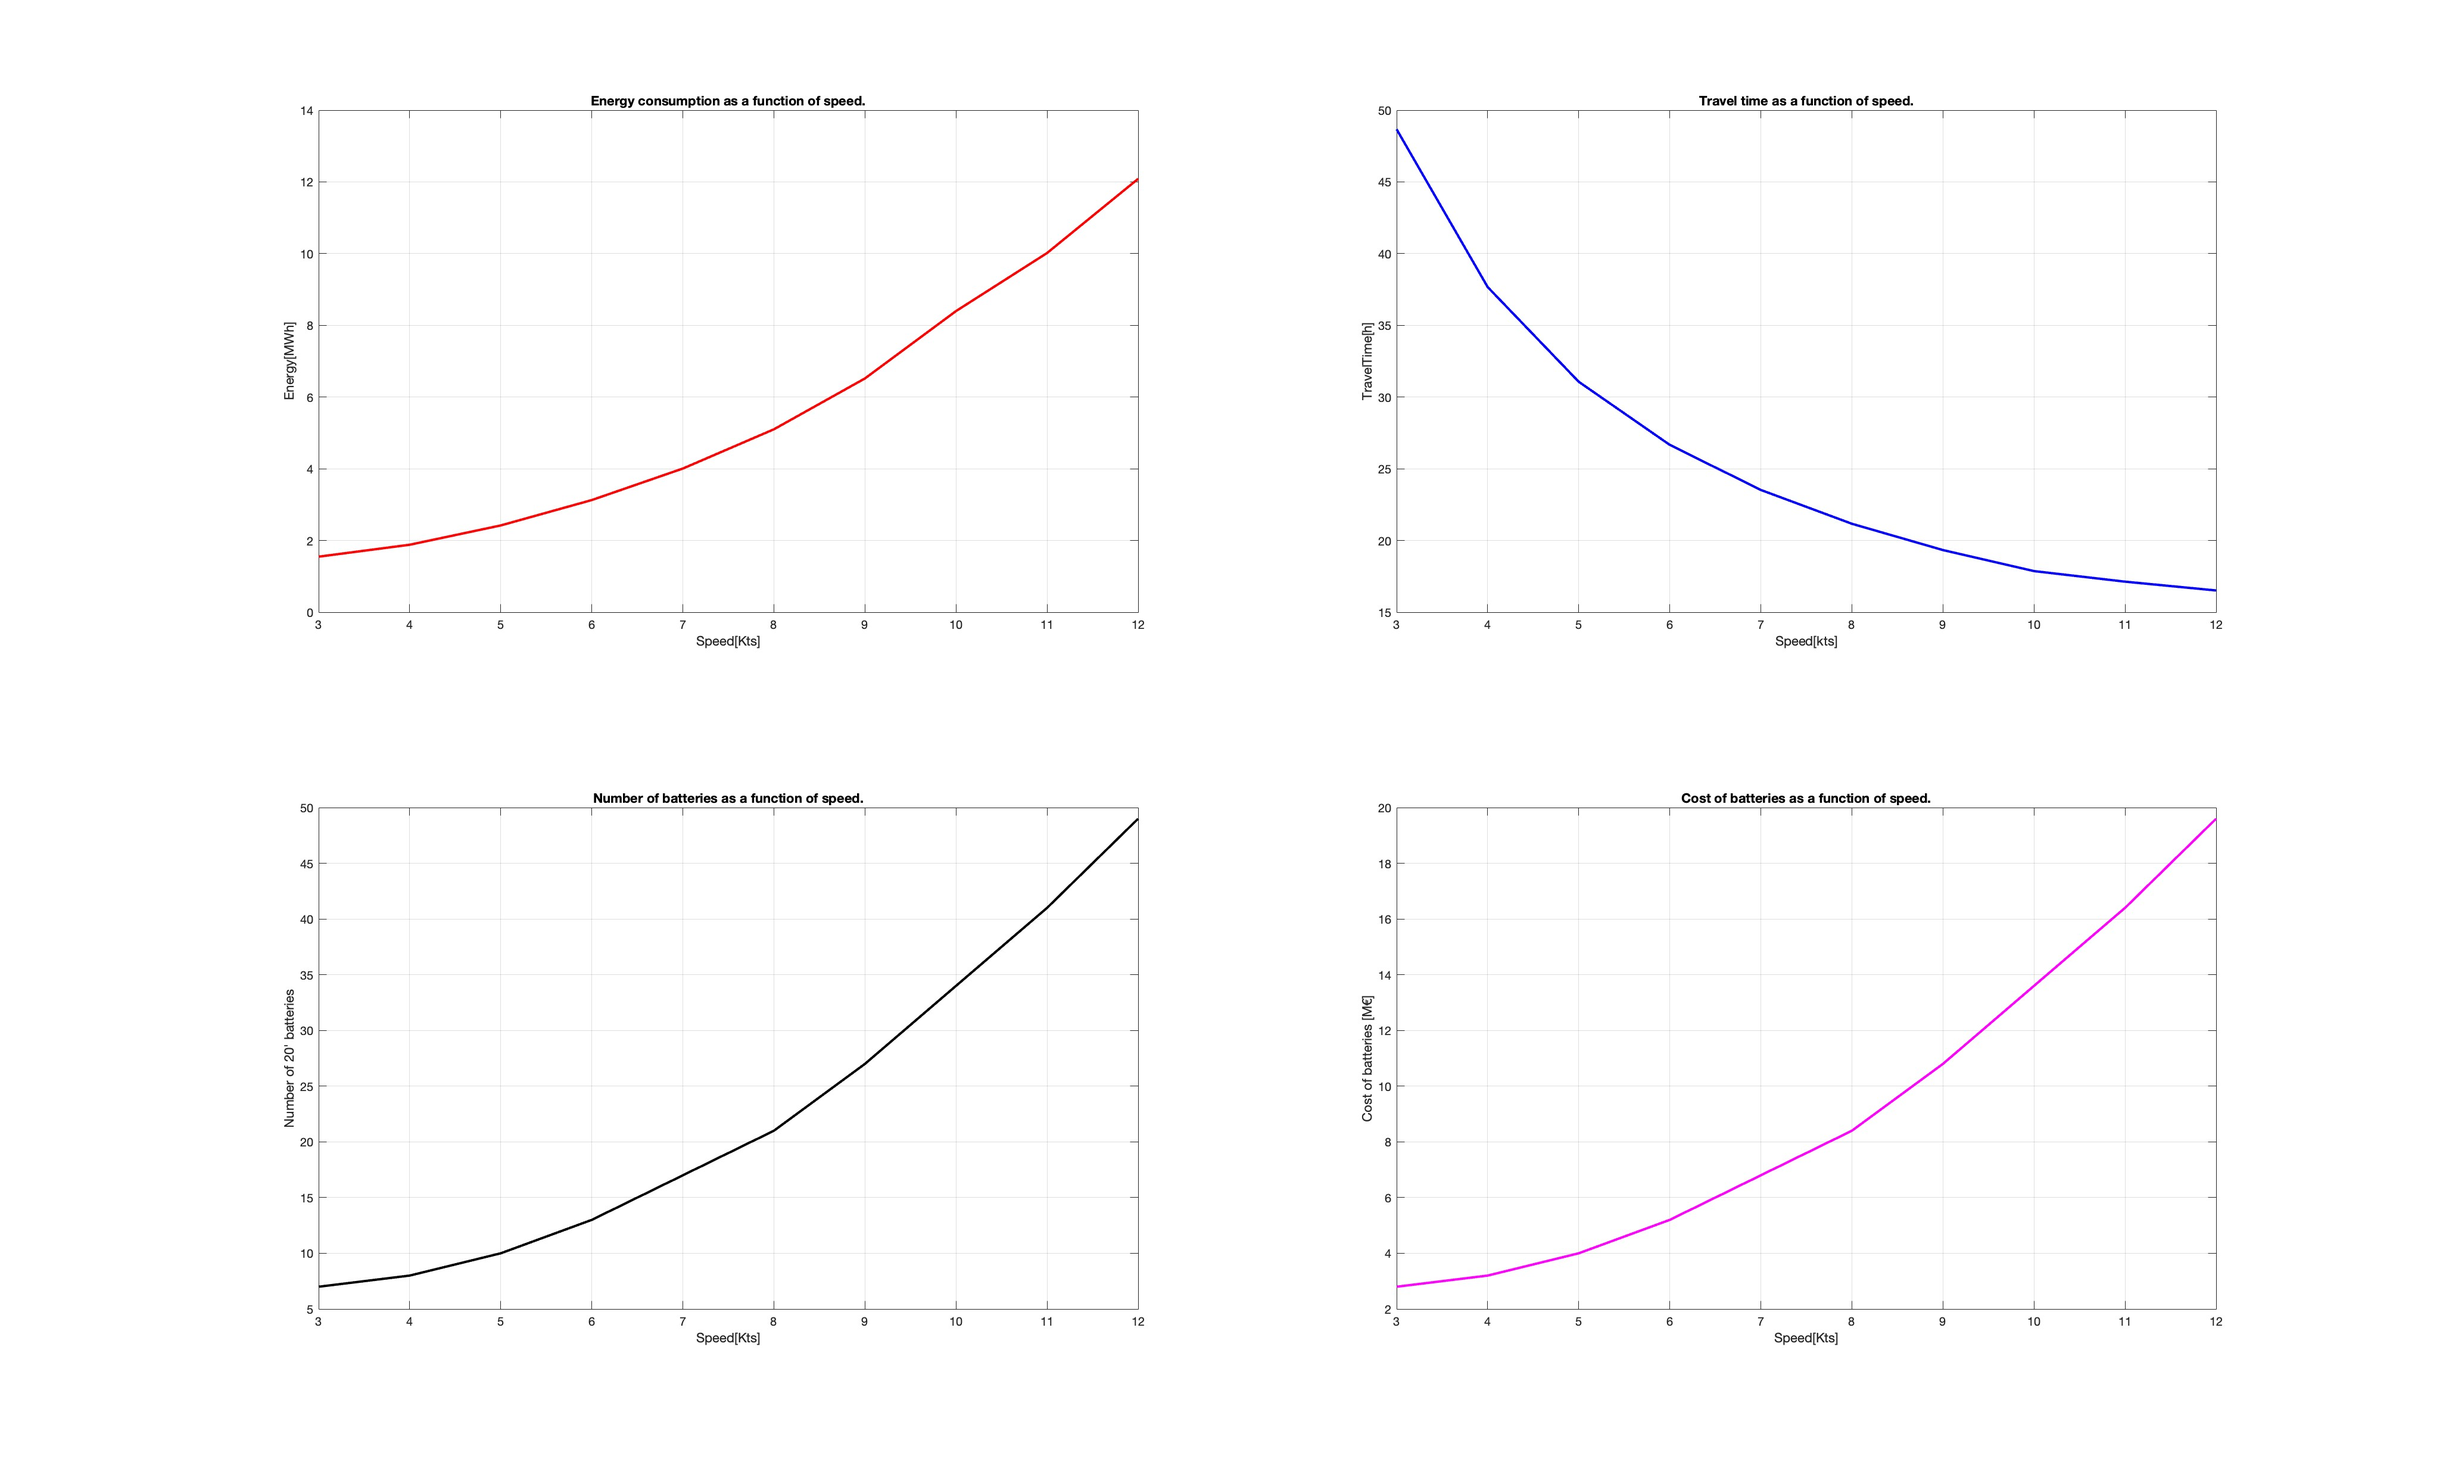
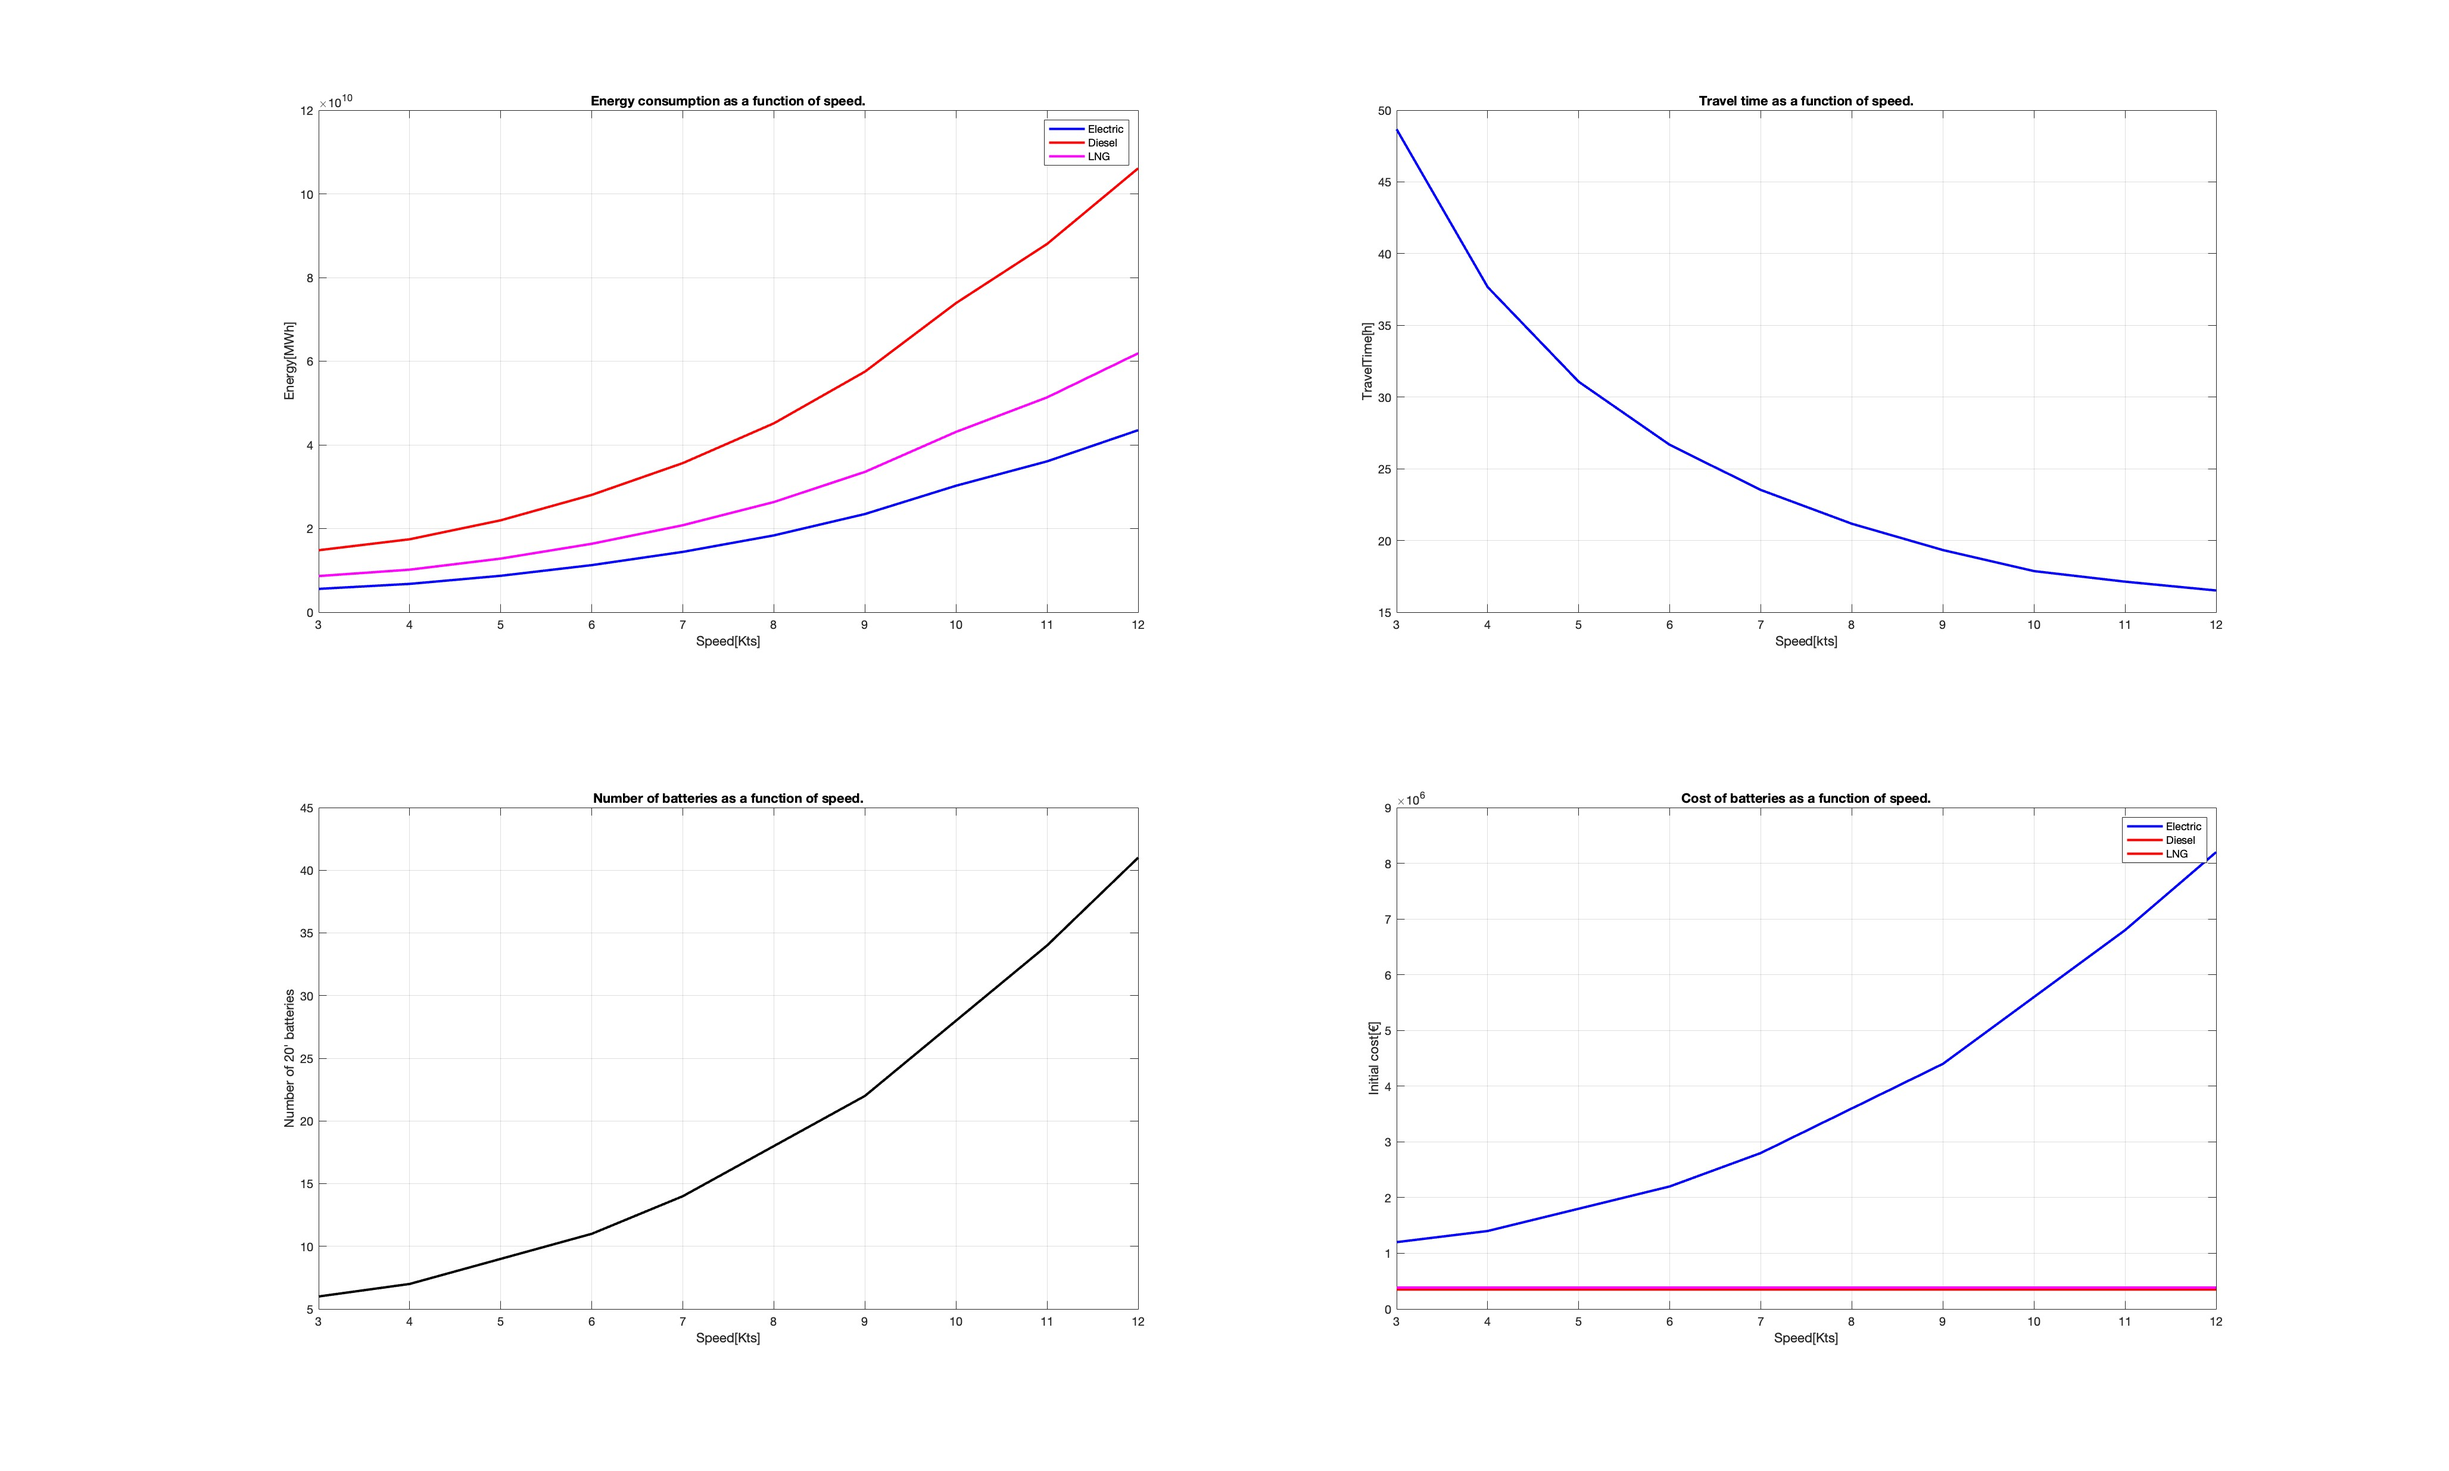
this might be it

diff --git a/BreakEven.m b/BreakEven.m
@@ -1,0 +1,70 @@
+clc
+clear all
+s = 7; %[kts]
+EtaElectric = 0.85;
+
+v = linspace(3,12,10);
+[EnergyExtras, EnergyPropulsion, TravelTime] = CalcEnergyAndTime2(s);
+[hours, minutes, seconds] = s2hms(TravelTime);
+h = TravelTime / 3600;
+fprintf('Total Travel time: %d:%d:%d \n',hours,minutes,seconds);
+
+%% For electric power
+EnergyDensityOfBattery = (300000*3600)/33.2;    %[J/m3]
+
+TotalElectricEnergy = (EnergyPropulsion / EtaElectric) + EnergyExtras;
+NumberOfBatteryCon = ceil((TotalElectricEnergy / EnergyDensityOfBattery) / 33.2);
+TotalCostOfBattCon = NumberOfBatteryCon * 200000;   %[€]
+NContElectric = 190 - NumberOfBatteryCon;
+
+% fprintf('Total required electrical energy: %.2f [MWh] or %d [Jouls] \n', TotalElectricEnergy / (3600 * 10^6),TotalElectricEnergy);
+% fprintf('Total Cost of %d containers %.2f million [€] \n',NumberOfBatteryCon, TotalCostOfBattCon*10^-6);
+%% For Diesel
+EtaDiesel = 0.35;
+EnergyDensOfDiesel = 38*10^9;   % [J/m^3]
+CostDieselFuel = 1.5*10^3;      % [€/m^3]
+CostDieselJ = CostDieselFuel / EnergyDensOfDiesel;
+
+CostDieselGen = ones(length(v)) * 350000; %[€]
+TotalDieselEnergy = (EnergyPropulsion + EnergyExtras) / EtaDiesel;
+VolumeOfDieselFuel = (TotalDieselEnergy / EnergyDensOfDiesel);
+NumberOfDieselCont = ceil(VolumeOfDieselFuel / 33.2);
+
+
+%% For LNG
+LNGEnergyDensity = 24 * 10^9;   %[J/m3]
+EtaLNG = 0.6;
+CostLNG = 1500 * 1.2;   %[€/m3]
+CostLNGJ = CostLNG / LNGEnergyDensity;
+
+CostLNGGen = 280000 + 350000 * 1.1;
+TotalLNGEnergy = (EnergyPropulsion + EnergyExtras) / EtaLNG;
+VolumeOfLNG = TotalLNGEnergy / LNGEnergyDensity;
+%% Break Even
+Ntrips = linspace(1,100,1000);
+% Diesel
+RunningCostDiesel = VolumeOfDieselFuel .* CostDieselFuel .* Ntrips;
+TotalCostDiesel = RunningCostDiesel;
+IncomeDiesel = 190 * 800 * Ntrips;
+RevenueDiesel = IncomeDiesel - TotalCostDiesel;
+% (TotalDieselEnergy*CostDieselJ*Ntrips)
+
+% Battery
+RunningCostBattery = RunningCostDiesel * 0.6 .* Ntrips;
+TotalCostBattery = RunningCostBattery + TotalCostOfBattCon;
+CostElectricJ = CostDieselJ * 0.6;
+IncomeElec = NContElectric * 800  * Ntrips;
+RevenueElec = IncomeElec - (TotalCostOfBattCon+TotalElectricEnergy*CostElectricJ*Ntrips);
+
+% LNG
+RunningCostLNG = VolumeOfLNG .* CostDieselFuel * 1.2 .* Ntrips;
+TotalCostLNG = RunningCostLNG + (350000 * 1.1) + 280000;
+IncomeLNG = 189 * 800 * Ntrips;
+RevenueLNG = IncomeLNG - (CostLNGGen+TotalLNGEnergy*CostLNGJ*Ntrips);
+
+figure(2)
+plot(Ntrips,RevenueElec,'b','LineWidth',2),hold on
+plot(Ntrips,RevenueDiesel,'r','LineWidth',2),hold on
+plot(Ntrips,RevenueLNG,'m','LineWidth',2), grid on
+xlabel('Number of trips'), ylabel('Total cost [€]')
+legend('Electric','Diesel','LNG')

diff --git a/BreakEven2.m b/BreakEven2.m
@@ -1,0 +1,77 @@
+clc
+clear all
+
+%% Energy needed
+s = 7;
+[E_extra, E_prop, Time] = CalcEnergyAndTime2(s);
+Ntrip = linspace(0,100,100);
+Ntrip2 = linspace(0,1000,1000);
+
+
+%% Diesel
+EtaD = 0.55;
+RhoD = 38 * 10^9;   %[J/m3]
+P_D = 1500; %[€/m3]
+PperJD = P_D / RhoD;    %[€/J]
+E_Diesel = (E_prop + E_extra) / EtaD;   %[J]
+RCostTripD = E_Diesel * PperJD;  %[€]
+RIncomeD = 190 * 800;
+RevD = (RIncomeD - RCostTripD) .* Ntrip;
+
+EmissionD = 0.266 / (3600 * 1000);   %[kg/J]
+EmissionD_total = E_Diesel * EmissionD * Ntrip2;
+
+
+%% LNG
+EtaLNG = 0.6;
+RhoLNG = 24 * 10^9; %[J/m3]
+PperJLNG = PperJD * 1.2; %[€/J]
+E_LNG = (E_prop + E_extra) / EtaLNG;   %[J]
+RCosTripLNG = E_LNG * PperJLNG; %[€/J]
+RIncomeLNG = 189 * 800;
+ScostLNG = 280000 + 350000 * 1.1;
+
+RevLNG = (RIncomeLNG - RCosTripLNG) .* Ntrip - ScostLNG;
+
+EmissionLNG = 1.7778e-07; %[kg/J]
+EmissionLNG = 0.0558 * 10^-6; % [kg/J]
+EmissionLNG_tot = EmissionLNG  * E_LNG * Ntrip2; %[Kg/trip]
+
+
+%% Electric
+EtaE = 0.85;
+PperJE = PperJD * 0.6; %[€/J]
+E_Elec = (E_prop + E_extra) / EtaE;   %[J]
+RCostTripE = E_Elec * PperJE; %[€]
+
+NContE = ceil(E_Elec / (300000 * 3600));
+RIncomeE = (190 - NContE) * 800;
+SCostE = (NContE * 200000) + (0.6 * 1.1 * 350000);
+RevE = (RIncomeE - RCostTripE) .* Ntrip - SCostE;
+EmissionBat = 89 / (1000 * 3600);   %[kg / J]
+EmissionBat2 = EmissionBat * E_Elec;
+EmissionElec = 0.014 / (1000 * 3600);   %[Kg/J]
+EmissionElec_total = EmissionBat2 + (EmissionElec * E_Elec * Ntrip2);
+
+
+%% Plots
+
+figure(1)
+plot(Ntrip,RevE,'b','LineWidth',2), hold on
+plot(Ntrip,RevD,'r','LineWidth',2), hold on
+plot(Ntrip,RevLNG,'m','LineWidth',2), grid on
+xlabel('Number of trips'), ylabel('Profit [€]')
+yline(0, 'k', 'LineWidth', 2); %
+legend('Electric', 'Diesel','LNG')
+title('Break-even cost for different types of energy.')
+
+figure(2)
+plot(Ntrip2,EmissionElec_total,'b','LineWidth',2), hold on
+plot(Ntrip2,EmissionD_total,'r','LineWidth',2), hold on
+plot(Ntrip2,EmissionLNG_tot,'m','LineWidth',2), grid on
+xlabel('Number of trips'), ylabel('Co2 Emission [kg]')
+yline(0, 'k', 'LineWidth', 2); %
+legend('Electric', 'Diesel','LNG')
+title('Cos emissions of different types of energy')
+
+
